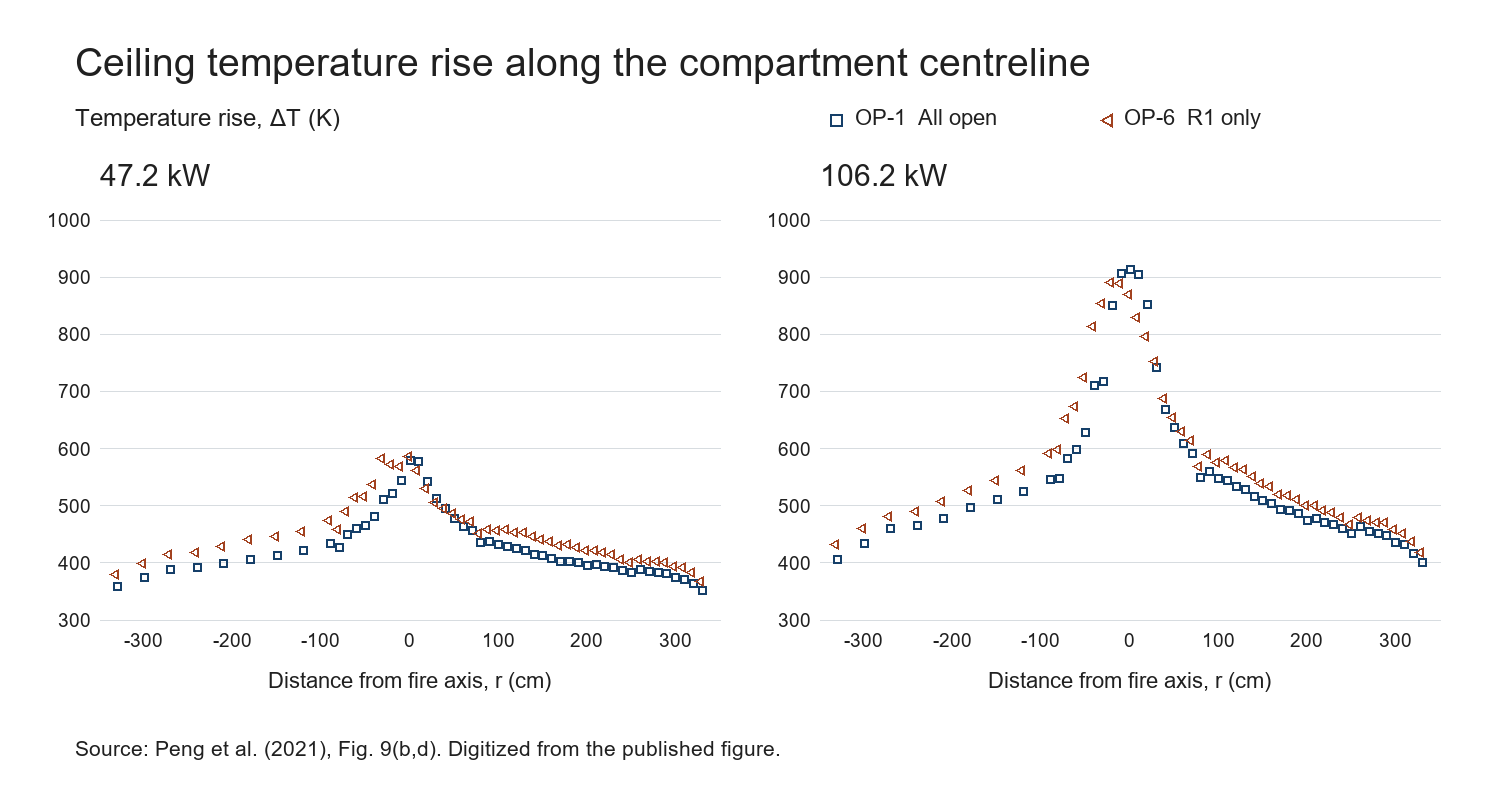
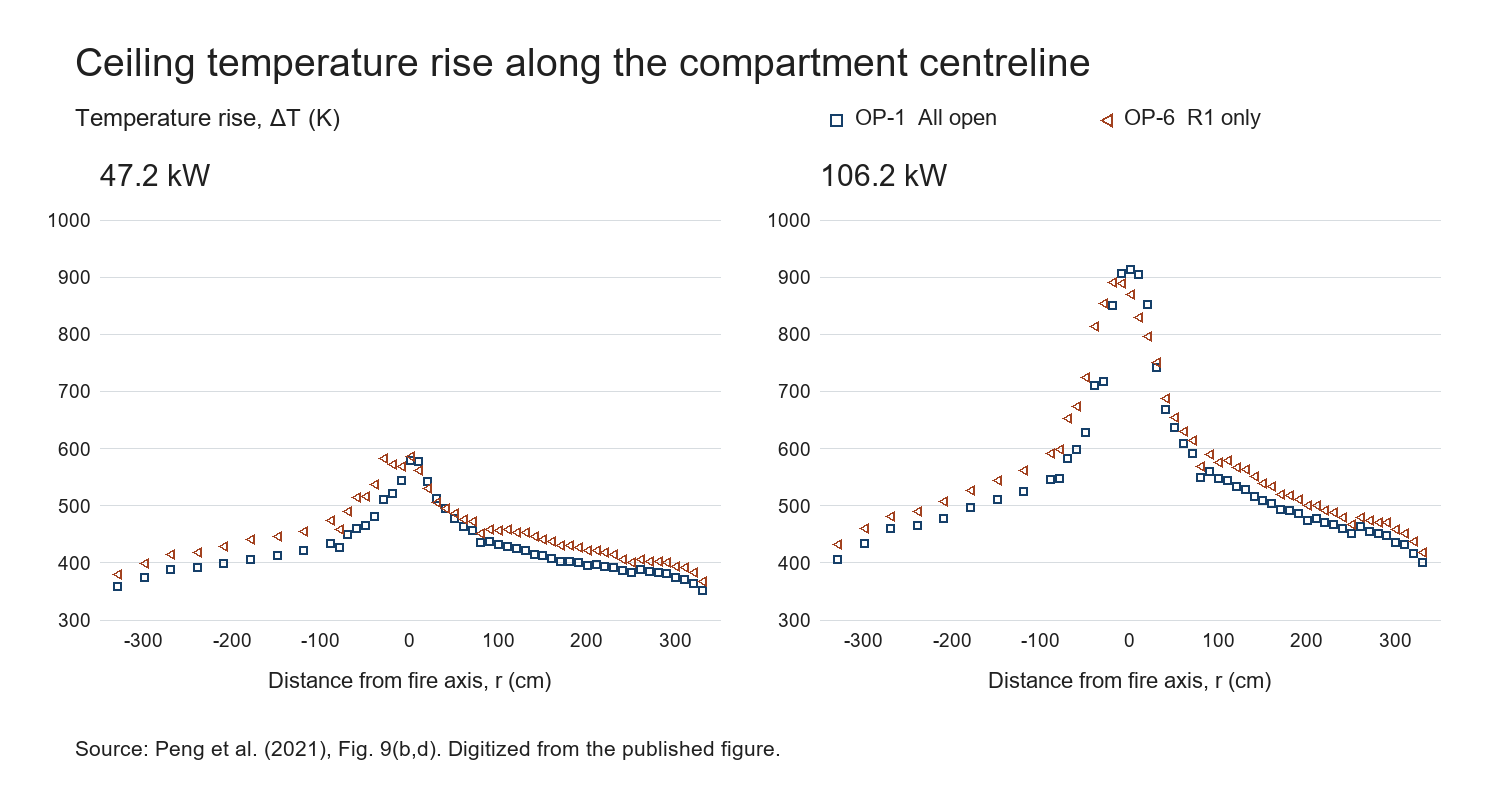
Locate triangular experimental markers at their geometric centroids

diff --git a/06_Tools/extract_peng_pdf_objects.py b/06_Tools/extract_peng_pdf_objects.py
@@ -27,6 +27,11 @@ with pdfplumber.open(next((root/"02_References/02_Papers").glob("Peng*.pdf"))) a
                 if op=='OP-6' and v['stroking_color']!=(0.502,0,0): continue
                 x=(v['x1']+v['x0'])/2
                 y=(v['top']+v['bottom'])/2
+                if op=='OP-6':
+                    vertices=list(dict.fromkeys(cmd[1] for cmd in v['path'] if cmd[0] in ('m','l')))
+                    if len(vertices)!=3:
+                        raise ValueError("Expected a triangular OP-6 marker")
+                    x,y=(sum(axis)/3 for axis in zip(*vertices))
                 if not left<x<right or not top<y<bottom: continue
                 if x>445 and y<top+55: continue  # legend
                 r=(x-left)/(right-left)*800-400
